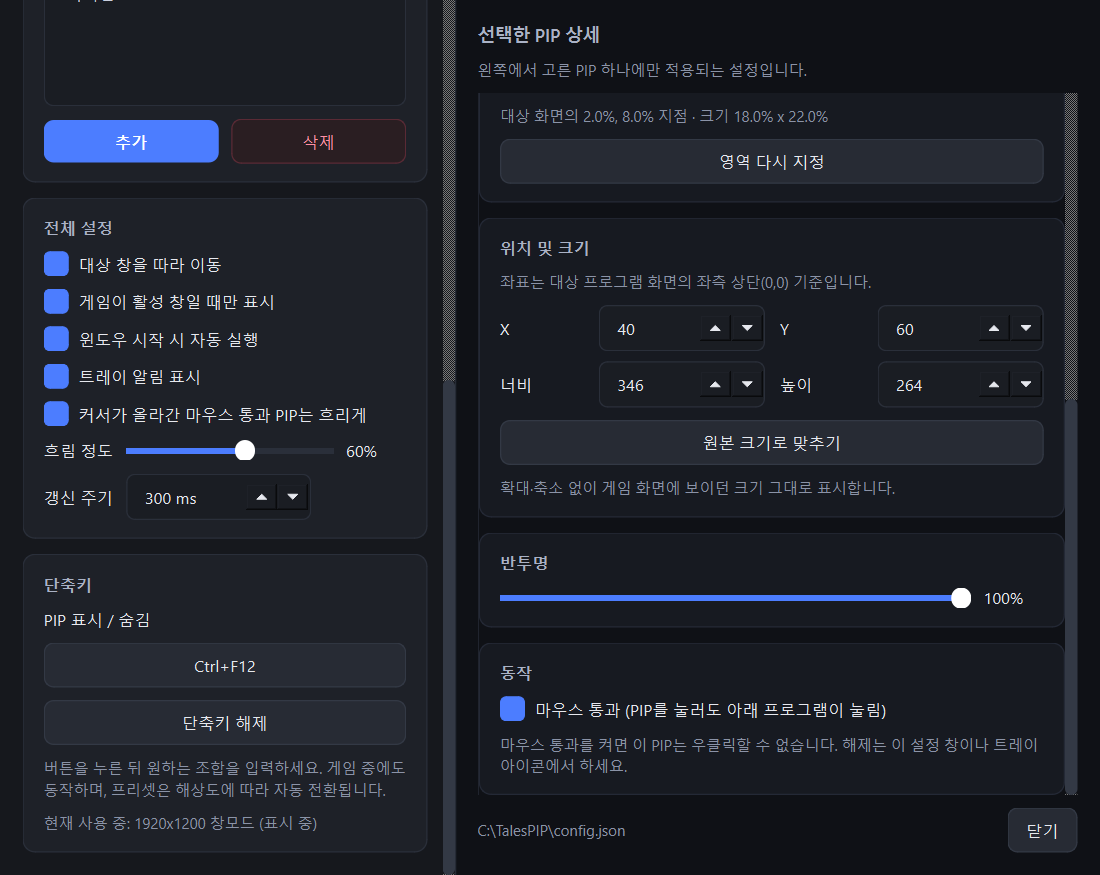
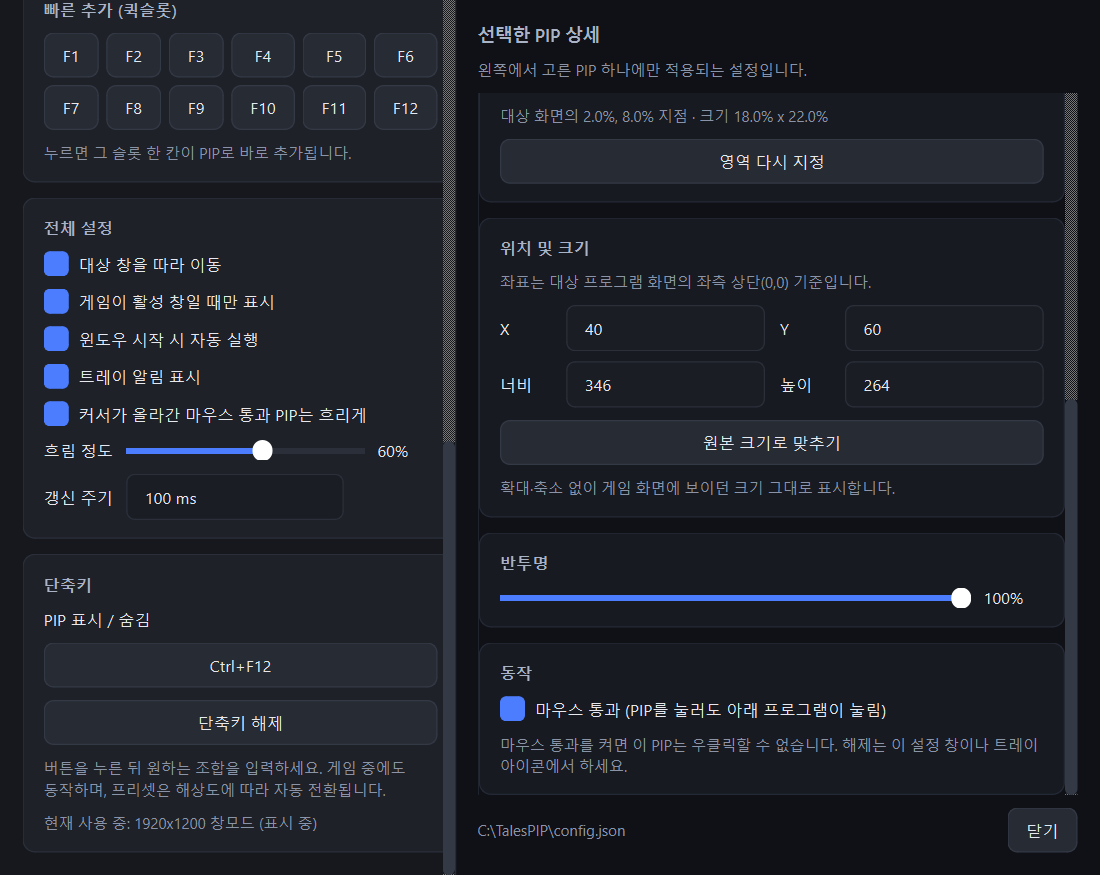
Restore spin box arrows, widen the left pane, mark the scroll bar
Styling the spin box up/down buttons made Qt stop drawing the arrow
indicators entirely; only the right padding is needed to keep long values
off them. The left pane's scroll bar was also eating into the cards, so it
is wider now, and the scroll bar itself gets a recessed track so the
handle has something to read against.

Config is written on first run too, rather than waiting for the first
setting to change.

diff --git a/tales_pip.py b/tales_pip.py
@@ -559,14 +559,10 @@ QLineEdit, QSpinBox {
     background: #1a1d23; border: 1px solid #2a2f3a; border-radius: 7px;
     padding: 6px 8px; color: #e6e8ee; selection-background-color: #4c7dff;
 }
-/* Reserve the arrows' width, or long values run underneath them. */
+/* Reserve room for the arrows so long values do not run underneath them.
+   Only padding: styling the buttons themselves makes Qt stop drawing the
+   arrow indicators altogether. */
 QSpinBox { padding-right: 26px; }
-QSpinBox::up-button, QSpinBox::down-button {
-    subcontrol-origin: border; width: 22px; border: none; background: transparent;
-}
-QSpinBox::up-button { subcontrol-position: top right; margin: 2px 2px 0 0; }
-QSpinBox::down-button { subcontrol-position: bottom right; margin: 0 2px 2px 0; }
-QSpinBox::up-button:hover, QSpinBox::down-button:hover { background: #272b34; }
 QLineEdit:focus, QSpinBox:focus { border-color: #4c7dff; }
 QCheckBox { spacing: 8px; color: #e6e8ee; }
 QCheckBox::indicator { width: 18px; height: 18px; border-radius: 5px;
@@ -578,10 +574,19 @@ QSlider::handle:horizontal {
     background: #ffffff; width: 16px; height: 16px;
     margin: -6px 0; border-radius: 8px;
 }
-QScrollBar:vertical { background: transparent; width: 10px; margin: 0; }
-QScrollBar::handle:vertical { background: #333945; border-radius: 5px; min-height: 30px; }
-QScrollBar::handle:vertical:hover { background: #3f4655; }
-QScrollBar::add-line, QScrollBar::sub-line { height: 0; }
+/* A recessed track behind a lighter, fully rounded handle — without the track
+   the handle had nothing to read against on these dark panels. */
+QScrollBar:vertical {
+    background: #12141a; width: 14px; margin: 2px; border-radius: 7px;
+}
+QScrollBar::handle:vertical {
+    background: #49505f; border-radius: 5px; min-height: 36px;
+    margin: 2px; border: 1px solid rgba(120, 130, 150, 0.35);
+}
+QScrollBar::handle:vertical:hover { background: #5d6577; }
+QScrollBar::handle:vertical:pressed { background: #6f778a; }
+QScrollBar::add-page:vertical, QScrollBar::sub-page:vertical { background: transparent; }
+QScrollBar::add-line, QScrollBar::sub-line { height: 0; width: 0; }
 """
 QSS = QSS.replace("#3d4椒a", "#3d434f")
 
@@ -1318,7 +1323,7 @@ class SettingsDialog(QDialog):
         self.preview_timer.timeout.connect(self.update_preview)
         self.setWindowTitle("TalesPIP")
         self.setStyleSheet(QSS)
-        self.resize(880, 780)
+        self.resize(910, 780)
 
         root = QHBoxLayout(self)
         root.setContentsMargins(0, 0, 0, 0)
@@ -1459,7 +1464,7 @@ class SettingsDialog(QDialog):
         left_scroll.setObjectName("Root")
         left_scroll.setWidget(left)
         left_scroll.setWidgetResizable(True)
-        left_scroll.setFixedWidth(364)
+        left_scroll.setFixedWidth(392)
         left_scroll.setFrameShape(QFrame.Shape.NoFrame)
         left_scroll.setHorizontalScrollBarPolicy(Qt.ScrollBarPolicy.ScrollBarAlwaysOff)
         root.addWidget(left_scroll)
@@ -2111,6 +2116,9 @@ class PipController(QObject):
         if first_run:
             # Run at logon by default; the checkbox in settings turns it off.
             set_startup_enabled(True)
+            # Write the file straight away rather than waiting for the first
+            # change, so it is obvious where settings live.
+            save_config(self.config)
 
         # The tray icon is the only always-available entry point; if it is
         # unavailable (or hidden in the overflow area on first run) the user

diff --git a/README.md b/README.md
@@ -66,7 +66,17 @@ python tales_pip.py
 생성된 PIP는 **드래그해서 이동**, **테두리를 잡아 크기 조절**할 수 있습니다.
 PIP를 **우클릭**하면 영역 추가·수정·삭제와 마우스 통과를 바로 켜고 끌 수 있습니다.
 
-### 3. PIP 하나씩 다듬기
+### 3. 퀵슬롯은 클릭 한 번으로
+
+<img src="docs/settings-slots.png" width="330" alt="빠른 추가 (퀵슬롯)">
+
+게임의 `F1` ~ `F12` 퀵슬롯은 드래그할 필요 없이 버튼만 누르면 됩니다.
+슬롯 바는 화면 좌측 하단에 고정된 크기로 붙어 있어서, 칸 위치를 해상도에서 바로 계산합니다.
+
+추가된 PIP는 **원본의 2배 크기(52x52)** 로, 화면 정중앙에서 오른쪽 60px 위치에 생성됩니다.
+그대로 원하는 자리로 끌어다 놓으면 됩니다.
+
+### 4. PIP 하나씩 다듬기
 
 <img src="docs/settings-region.png" width="620" alt="선택한 PIP 상세 설정">
 
@@ -80,7 +90,7 @@ PIP를 **우클릭**하면 영역 추가·수정·삭제와 마우스 통과를 
 | **반투명** | 이 PIP만 투명하게 만듭니다 |
 | **마우스 통과** | 켜면 PIP를 클릭해도 아래 게임이 눌립니다. 대신 그 PIP는 우클릭할 수 없으니, 해제는 설정 창이나 트레이에서 하세요 |
 
-### 4. 해상도가 여러 개라면
+### 5. 해상도가 여러 개라면
 
 크롭 좌표는 **해상도마다 달라집니다.** 게임 UI가 해상도에 정비례해 움직이지 않기 때문에,
 1920x1200에서 잡은 영역은 1280x720에서 엉뚱한 곳을 가리킵니다.
@@ -93,7 +103,7 @@ PIP를 **우클릭**하면 영역 추가·수정·삭제와 마우스 통과를 
 
 이후에는 **해상도만 바꾸면 프리셋이 알아서 전환**됩니다. 수동으로 고를 일이 없습니다.
 
-### 5. 전역 설정과 단축키
+### 6. 전역 설정과 단축키
 
 <img src="docs/settings-global.png" width="620" alt="전체 설정과 단축키">
 
